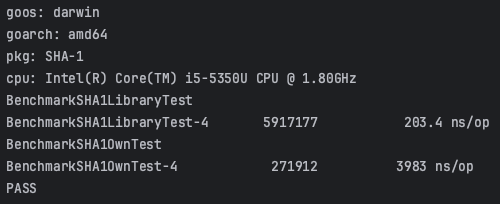
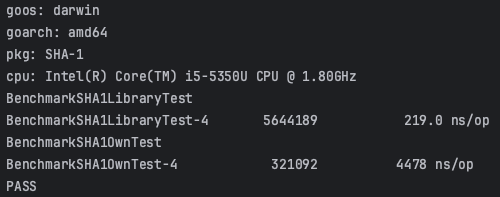
upload README.md v4

diff --git a/SHA_1/README.md b/SHA_1/README.md
@@ -18,23 +18,40 @@
 
 Для власної реалізації алгоритму гешування в якості вхідного повідомлення візьмемо - "1ABC104FE402BD". <br>
 _При вірному знаходженні хешу отримуємо наступне:_ <br>
-SHA1 to  1ABC104FE402BD  is  [219 91 87 3 107 122 11 210 113 177 10 249 147 142 223 197 125 112 45 224] <br>
-SHA1 to  1ABC104FE402BD  is  db5b57036b7a0bd271b10af9938edfc57d702de0
+| SHA1 to 1ABC104FE402BD is | [219 91 87 3 107 122 11 210 113 177 10 249 147 142 223 197 125 112 45 224] |
+|---------------------------|--------------------------------------------------------|
+| SHA1 to 1ABC104FE402BD is | db5b57036b7a0bd271b10af9938edfc57d702de0                                   |
 
 _При вірному знаходженні хешу і співпадінні в тесті на співпадіння гешу з бібліотечною реалізацією отримували наступне:_ <br>
-=== RUN   TestHash <br>
---- PASS: TestHash (0.00s) <br>
+```
+=== RUN   TestHash
+--- PASS: TestHash (0.00s)
 PASS
+```
 
 _Результат порівняння швидкодії власної реалізації з бібліотечною реалізацією на прикладі тестів Benchmark:_ <br>
-1. Вхідне повідомлення: "1ABC104FE402BD" ![BenchmarkTest1](/BenchmarkTest/Test1_1ABC104FE402BD.png)
-   | goos | goarch | pkg   | cpu                                     | Benchmark               | Iterations | Time/op     |
-   |------|--------|-------|-----------------------------------------|-------------------------|------------|-------------|
-   | darwin | amd64  | SHA-1 | Intel(R) Core(TM) i5-5350U CPU @ 1.80GHz | SHA1LibraryTest         | 4125369     | 265.7 ns/op |
-   | darwin | amd64  | SHA-1 | Intel(R) Core(TM) i5-5350U CPU @ 1.80GHz | SHA1OwnTest             | 273588     | 3892 ns/op  |
-2. Вхідне повідомлення: "cryptography" ![BenchmarkTest2](/BenchmarkTest/Test2_cryptography.png)
-3. Вхідне повідомлення: "123" ![BenchmarkTest3](/BenchmarkTest/Test3_123.png)
-4. Вхідне повідомлення: "Own implementation of the SHA-1 hashing algorithm" ![BenchmarkTest4](/BenchmarkTest/Test4_Sentence.png)
+1. Вхідне повідомлення: "1ABC104FE402BD"
+   | goos   | goarch | pkg   | cpu                                     | Benchmark              | Iterations | Time/op    |
+   |--------|--------|-------|-----------------------------------------|------------------------|------------|------------|
+   | darwin | amd64  | SHA-1 | Intel(R) Core(TM) i5-5350U CPU @ 1.80GHz | SHA1LibraryTest        | 5644189    | 219.0 ns/op |
+   | darwin | amd64  | SHA-1 | Intel(R) Core(TM) i5-5350U CPU @ 1.80GHz | SHA1OwnTest            | 321092     | 4478 ns/op  |
+2. Вхідне повідомлення: "cryptography"
+   | goos   | goarch | pkg   | cpu                                     | Benchmark              | Iterations | Time/op    |
+   |--------|--------|-------|-----------------------------------------|------------------------|------------|------------|
+   | darwin | amd64  | SHA-1 | Intel(R) Core(TM) i5-5350U CPU @ 1.80GHz | SHA1LibraryTest        | 5769531    | 210.3 ns/op |
+   | darwin | amd64  | SHA-1 | Intel(R) Core(TM) i5-5350U CPU @ 1.80GHz | SHA1OwnTest            | 317234     | 4914 ns/op  |
+3. Вхідне повідомлення: "123"
+   | goos   | goarch | pkg   | cpu                                     | Benchmark              | Iterations | Time/op    |
+   |--------|--------|-------|-----------------------------------------|------------------------|------------|------------|
+   | darwin | amd64  | SHA-1 | Intel(R) Core(TM) i5-5350U CPU @ 1.80GHz | SHA1LibraryTest        | 5581586    | 227.4 ns/op |
+   | darwin | amd64  | SHA-1 | Intel(R) Core(TM) i5-5350U CPU @ 1.80GHz | SHA1OwnTest            | 313344     | 3871 ns/op  |
+4. Вхідне повідомлення: "Own implementation of the SHA-1 hashing algorithm." (sentence)
+   | goos   | goarch | pkg   | cpu                                     | Benchmark              | Iterations | Time/op    |
+   |--------|--------|-------|-----------------------------------------|------------------------|------------|------------|
+   | darwin | amd64  | SHA-1 | Intel(R) Core(TM) i5-5350U CPU @ 1.80GHz | SHA1LibraryTest        | 4760408    | 219.0 ns/op |
+   | darwin | amd64  | SHA-1 | Intel(R) Core(TM) i5-5350U CPU @ 1.80GHz | SHA1OwnTest            | 348031     | 4569 ns/op  |
+
+Також всі результати тестів Benchmark містяться в папці BenchmarkTest даного проекту.
 
 Для запуску коду потрібно:
 -
